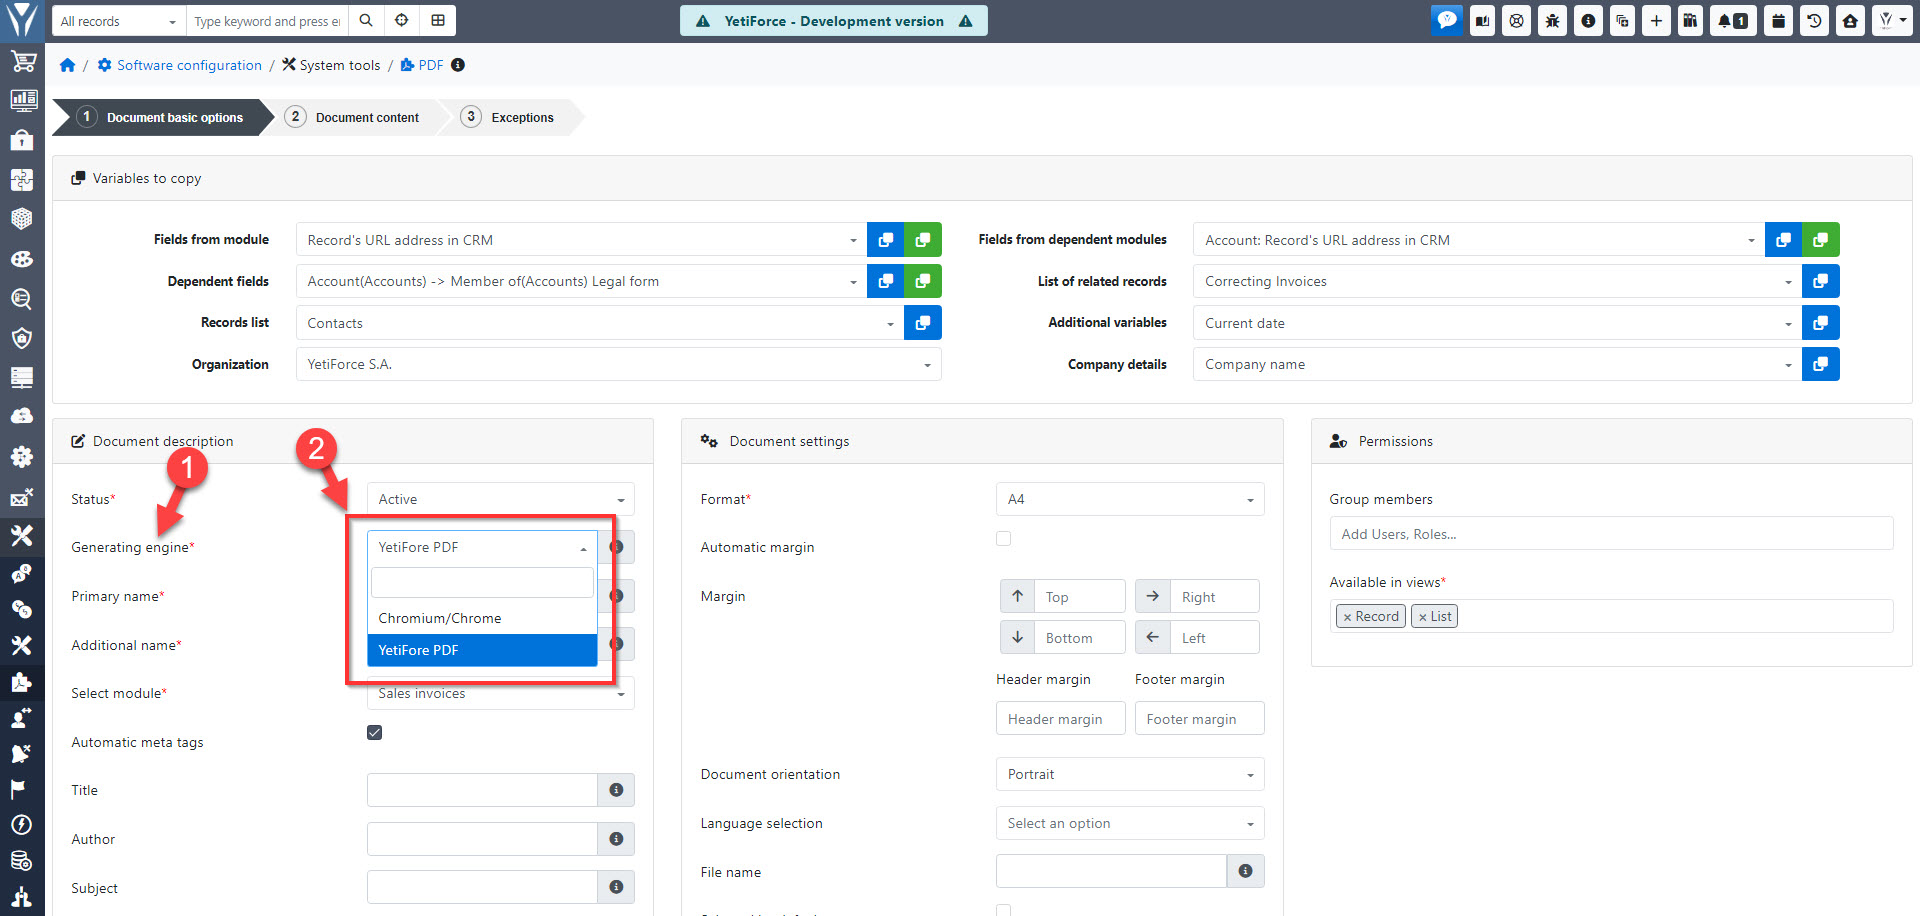
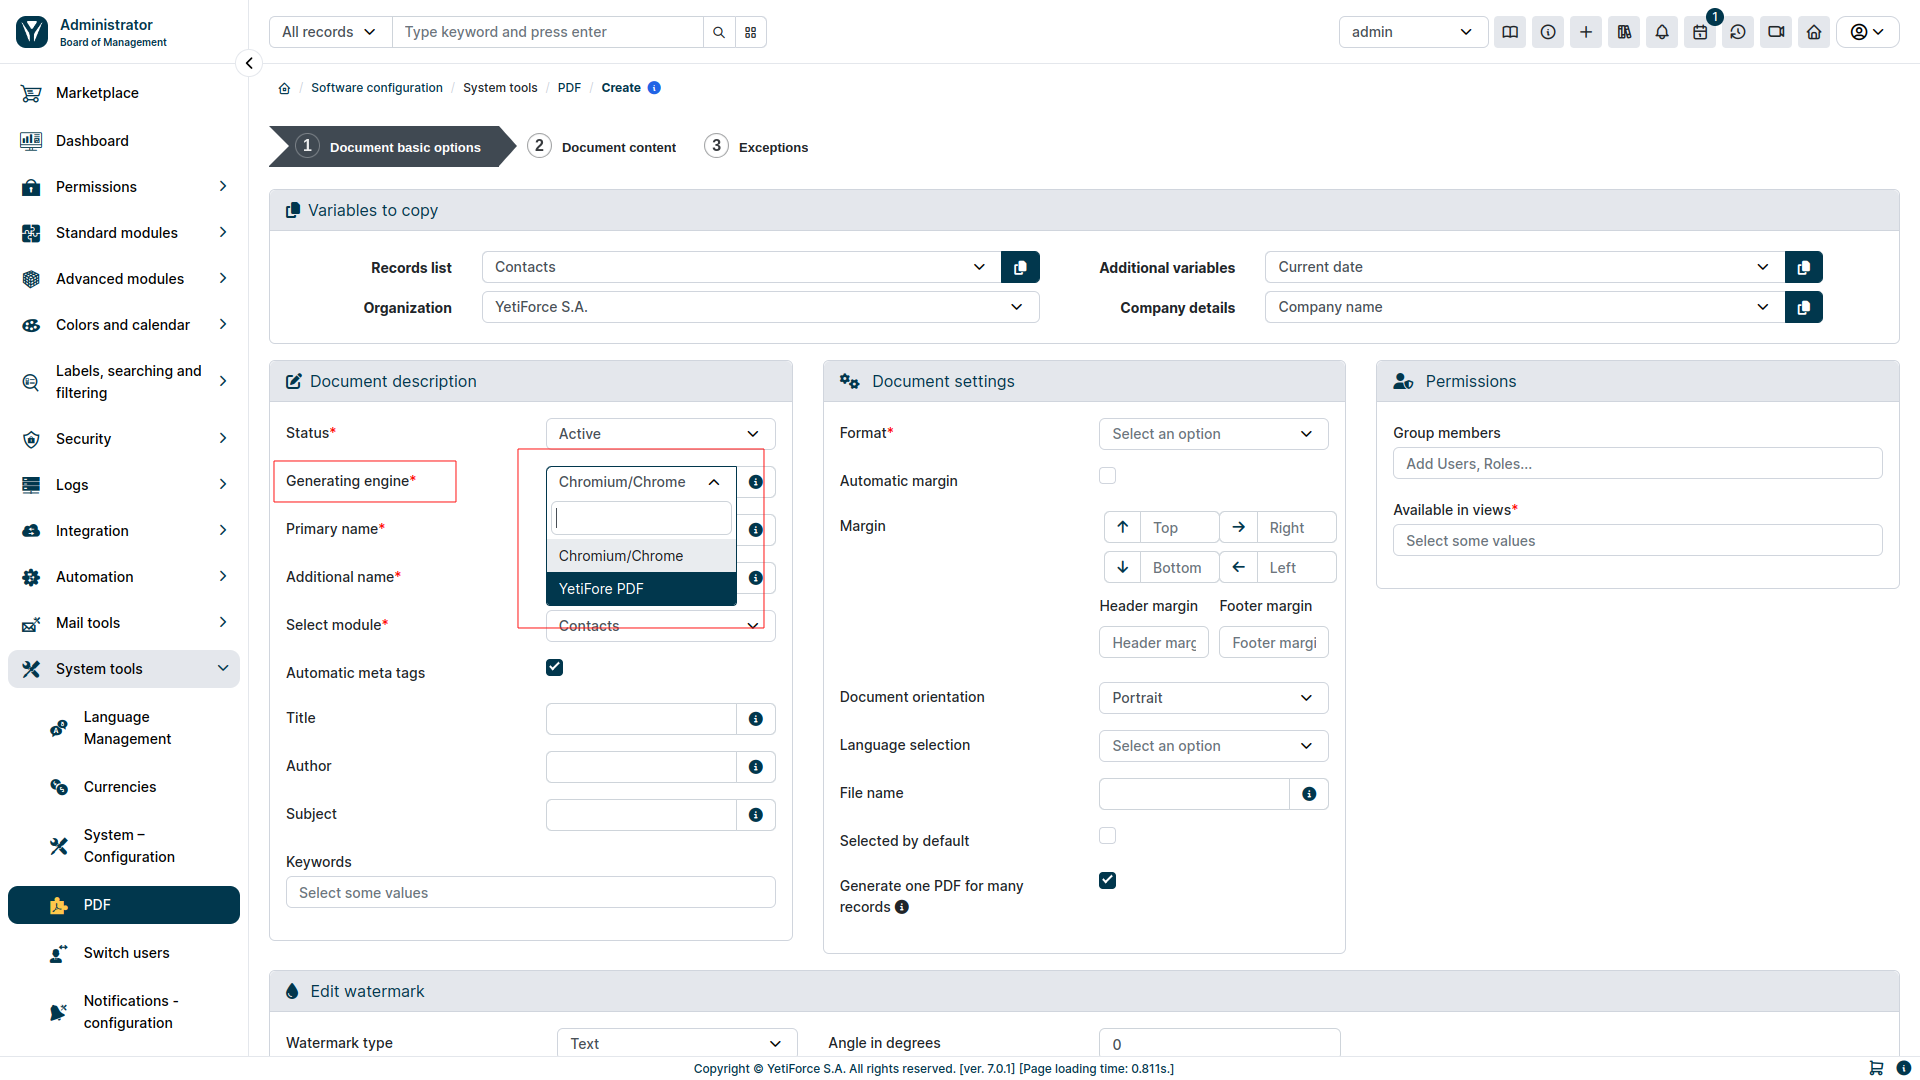
YD-24

diff --git a/docs/3-administrator-guides/17-system-tools/04-pdf/README.md b/docs/3-administrator-guides/17-system-tools/04-pdf/README.md
@@ -1,26 +1,45 @@
 ---
-title: PDF
+title: PDF Premium
 description: YetiForce PDF Premium
 keywords:
   - YetiForce
-  - Settings
+  - Panel konfiguracyjny
   - PDF
 tags:
   - PDF
 preview: pdf-2.jpg
 ---
+:::tip
 
-## Chromium/Chrome
+Do prawidłowego działania PDF Premium konieczne jest wykupienie płatnego dodatku YetiForce PDF Premium. 
 
-### Download
+Instrukcja jak to zrobić znajduje się tutaj: [Instrukcja aktywacji YetiForce PDF Premium](/administrator-guides/marketplace/addons/YetiForce-pdf-premium/)
+
+:::
+
+
+W celu prawidłowego działania dodatku YetiForce PDF Premium, konieczne jest pobranie i zainstalowanie silnika Chromium/Chrome. Silnik ten umożliwia zaawansowane renderowanie PDF-ów, zapewniając wysoką jakość dokumentów i pełną zgodność z funkcjami systemu.
+
+### Pobranie silnika Chromium/Chrome
+
+Aby pobrać silnik Chromium odwiedź poniższą stronę. Znajdziesz tam instrukcje i linki do najnowszych wersji przeglądarki Chromium, które można zainstalować na swoim systemie.
 
 - Chromium - https://www.chromium.org/getting-involved/download-chromium/
 
-### Configuring the PDF generator path
+### Konfigurowanie ścieżki generatora PDF
 
-PDF configuration file: [config/Components/Pdf.php](https://doc.yetiforce.com/code/classes/Config-Components-Pdf.html)
+Aby zapewnić prawidłowe generowanie dokumentów PDF w YetiForce CRM, konieczne jest skonfigurowanie ścieżki do generatora PDF. Proces ten obejmuje modyfikację pliku konfiguracyjnego i ustawienie odpowiedniej ścieżki do silnika Chromium/Chrome. Poniżej znajdziesz szczegółowe instrukcje dotyczące tej konfiguracji.
 
-Set the local path or a command to the PDF generator in the [$chromiumBinaryPath](https://doc.yetiforce.com/code/classes/Config-Components-Pdf.html#property_chromiumBinaryPath) parameter
+#### Lokalizacja pliku konfiguracyjnego
+
+Plik konfiguracyjny odpowiedzialny za ustawienia generatora PDF znajduje się w katalogu **config/Components/** i nosi nazwę **Pdf.php**.
+
+Plik konfiguracyjny PDF: [config/Components/Pdf.php](https://doc.yetiforce.com/code/classes/Config-Components-Pdf.html)
+
+#### Ustawienie ścieżki do generatora PDF
+
+W pliku **Pdf.php** znajdź parametr **[$chromiumBinaryPath](https://doc.yetiforce.com/code/classes/Config-Components-Pdf.html#property_chromiumBinaryPath)** i  ustaw w nim ścieżkę lokalną do zainstalowanego silnika Chromium/Chrome lub określić polecenie, które uruchamia ten silnik.
+
 
 ```php
 /**
@@ -28,27 +47,27 @@ Set the local path or a command to the PDF generator in the [$chromiumBinaryPath
  */
 class Pdf
 {
-	/**
-	 * The name or path of the chrome/chromium engine.
-	 *
-	 * @see https://www.chromium.org/getting-involved/download-chromium
-	 *
-	 * @var string
-	 */
-	public static $chromiumBinaryPath = 'chromium';
+    /**
+     * The name or path of the chrome/chromium engine.
+     *
+     * @see https://www.chromium.org/getting-involved/download-chromium
+     *
+     * @var string
+     */
+    public static $chromiumBinaryPath = 'chromium';
 
-	/**
-	 * Chromium browser options available for the browser factory.
-	 *
-	 * @see https://github.com/chrome-php/chrome#available-options
-	 *
-	 * @var array
-	 */
-	public static $chromiumBrowserOptions = ['noSandbox' => true, 'noProxyServer' => true];
+    /**
+     * Chromium browser options available for the browser factory.
+     *
+     * @see https://github.com/chrome-php/chrome#available-options
+     *
+     * @var array
+     */
+    public static $chromiumBrowserOptions = ['noSandbox' => true, 'noProxyServer' => true];
 }
 ```
 
-#### Example `$chromiumBinaryPath` values:
+#### Przykładowe wartości `$chromiumBinaryPath`:
 
 - chromium
 - chromium-browser
@@ -57,115 +76,21 @@ class Pdf
 - c:\Program Files (x86)\Google\Chrome\Application\chrome.exe
 - c:\ungoogled-chromium\chrome.exe
 
-### Select the new engine
+### Wybierz nowy silnik
 
-When the `$chromiumBinaryPath` path is set correctly and the system has access to the location/command you will see a new engine in the PDF panel.
+W panelu administrcyjnym przejdź w lewym menu do zakładki  ```Narzędzia systemowe``` a następnie ```PDF```. W celu weryfikacji czy poprawnie skonfigurowano silnik Chromium/Chrome, wybierz przycisk ```Nowy szablon PDF```.
+
+![pdf-1.jpg](pdf-1.jpg)
+
+Gdy ścieżka `$chromiumBinaryPath` jest poprawnie ustawiona i system ma dostęp do lokalizacji/polecenia, zobaczysz nowy silnik w polu ```Silnik generujący```.
 
 ![pdf-2.jpg](pdf-2.jpg)
 
-### Simple installation on Linux
+### Instalacja Chromium na Linuksie przy użyciu skryptu Bash
 
-A simple script to download the latest version without installation.
+Jeżeli twój system znajduje się na serwerze opartym o dystrybucję Linux, możesz w prosty sposób pobrać Chrome/Chromium za pomocą skryptu bash.
 
-Make sure your system has installed all required dependencies.
-Thanks [Puppeteer](https://github.com/puppeteer/puppeteer/blob/main/docs/troubleshooting.md#chrome-headless-doesnt-launch-on-unix)
-❤
-
-The list of required packages may vary depending on the distribution and version. https://source.chromium.org/chromium/chromium/src/+/main:chrome/installer/linux/debian/dist_package_versions.json
-
-<details>
-<summary>Debian (e.g. Ubuntu)</summary>
-
-```
-ca-certificates
-fonts-liberation
-libappindicator3-1
-libasound2
-libatk-bridge2.0-0
-libatk1.0-0
-libc6
-libcairo2
-libcups2
-libdbus-1-3
-libexpat1
-libfontconfig1
-libgbm1
-libgcc1
-libglib2.0-0
-libgtk-3-0
-libnspr4
-libnss3
-libpango-1.0-0
-libpangocairo-1.0-0
-libstdc++6
-libx11-6
-libx11-xcb1
-libxcb1
-libxcomposite1
-libxcursor1
-libxdamage1
-libxext6
-libxfixes3
-libxi6
-libxrandr2
-libxrender1
-libxss1
-libxtst6
-lsb-release
-wget
-xdg-utils
-
-Note: You might need to install ‘libgbm-dev’ and ‘libxshmfence-dev’ also. This is reported for Ubuntu 20.04.
-```
-
-</details>
-
-<details>
-<summary>CentOS</summary>
-
-```
-alsa-lib.x86_64
-atk.x86_64
-cups-libs.x86_64
-gtk3.x86_64
-ipa-gothic-fonts
-libXcomposite.x86_64
-libXcursor.x86_64
-libXdamage.x86_64
-libXext.x86_64
-libXi.x86_64
-libXrandr.x86_64
-libXScrnSaver.x86_64
-libXtst.x86_64
-pango.x86_64
-xorg-x11-fonts-100dpi
-xorg-x11-fonts-75dpi
-xorg-x11-fonts-cyrillic
-xorg-x11-fonts-misc
-xorg-x11-fonts-Type1
-xorg-x11-utils
-```
-
-After installing dependencies you need to update nss library using this command
-
-```
-yum update nss -y
-```
-
-</details>
-
-<details>
-  <summary>Check out discussions</summary>
-
-- [#290](https://github.com/puppeteer/puppeteer/issues/290) - Debian troubleshooting <br/>
-- [#391](https://github.com/puppeteer/puppeteer/issues/391) - CentOS troubleshooting <br/>
-- [#379](https://github.com/puppeteer/puppeteer/issues/379) - Alpine troubleshooting <br/>
-
-</details>
-
-```bash
-apt-get install -y --no-install-recommends libnss3-tools libatk1.0-0 libatk-bridge2.0-0 libdrm-dev libxkbcommon-dev libxcomposite1 libxdamage1 libxfixes3 libxrandr2 libgbm-dev libasound2
-```
+Wykonaj poniższy skrypt, który pobierze najnowszą wersję Chromium/Chrome i umieści go gotowego do pracy na serwerze w lokalizacji ```./latest```
 
 ```bash
 #! /bin/bash
@@ -200,3 +125,12 @@ rm -f ./latest
 find chromium/* -type d -ctime +1 -exec rm -rf {} \;
 ln -s $REVISION/chrome-linux/ ./latest
 ```
+
+<details>
+  <summary>Rozwiazywanie problemów</summary>
+
+- [#290](https://github.com/puppeteer/puppeteer/issues/290) - Debian <br/>
+- [#391](https://github.com/puppeteer/puppeteer/issues/391) - CentOS <br/>
+- [#379](https://github.com/puppeteer/puppeteer/issues/379) - Alpine <br/>
+
+</details>

diff --git a/docs/3-administrator-guides/04-marketplace/02-addons/05-YetiForce-pdf-premium/README.md b/docs/3-administrator-guides/04-marketplace/02-addons/05-YetiForce-pdf-premium/README.md
@@ -1,32 +1,50 @@
 ---
-title: YetiForce PDF Premium - activation
+title: YetiForce PDF Premium
 description: YetiForce PDF Premium
 keywords:
   - YetiForce
   - PDF
   - Premium
-  - activation
+  - aktywuj
 tags:
   - PDF
 preview: pdf-1.jpg
 ---
 
+YetiForce CRM oferuje szeroki wachlarz funkcji, w tym generowanie raportów PDF. W systemie istnieją dwa główne silniki do generowania dokumentów PDF: darmowy, wbudowany silnik YetiForce oraz płatny ***YetiForce PDF Premium***, oparty o **Chromium**.
+
+System umożliwia połączenie danych z YetiForce CRM z szablonami PDF, co pozwala na automatyczne generowanie spersonalizowanych dokumentów. Dzięki temu można dynamicznie wstawiać informacje z rekordów kontaktów, firm, ofert, faktur i innych modułów, co znacznie oszczędza czas i eliminuje błędy związane z ręcznym wprowadzaniem danych.
+
+Podstawowa wersja funkcjonalności PDF jest dostępna za darmo w systemie YetiForce.
+Natomiast **PDF Premium** to rozszerzenie, które umożliwia tworzenie bardziej zaawansowanych i profesjonalnych dokumentów PDF, niż standardowy silnik dostępny w systemie YetiForce.  Wykorzystuje ono przeglądarkę Chromium do renderowania i generowania dokumentów PDF.
+
+#### Co wyróżnia YetiForce PDF Premium
+* kompatybilność z CSS3 i HTML 5
+* kompatybilność ze wszystkimi technologiami obsługiwanymi przez przeglądarkę
+* w pełni obsługiwane znaki specjalne i czcionki
+* jedynym ograniczeniem są możliwości przeglądarki
+* wsparcie systemu operacyjnego: Linux, macOS, Windows
+
+W tym artykule znajdziesz instrukcje, jak zainstalować i korzystać z tego modułu.
+
 :::tip
 
-The Chromium/Chrome engine is necessary in order for this addon to work properly. You can download it [HERE](https://www.chromium.org/getting-involved/download-chromium/)
+Do prawidłowego działania dodatku wymagany jest silnik Chromium/Chrome. 
+Informacje jak go skonfigurowac znajdziesz w [tym artykule](/administrator-guides/system-tools/pdf)
 
 :::
 
-## Purchasing the addon
 
-It's best to purchase all the addon in the Marketplace in the system in the administrator panel. If you're interested in other payment options you can use our website or get in touch with us directly.
+## Zakup dodatku
+
+Dodatki najlepiej kupować w Marketplace panelu administracyjnym systemu YetiForce. Jeżeli interesują cię inne formy płatności i rozliczenia to można skorzystać z naszej strony WWW lub skontaktować się z nami za pomocą formularza kontaktowego.
 
 ![pdf-1.jpg](pdf-1.jpg)
 
-## Activating the addon by the YetiForce team
+## Aktywacja dodatku przez zespół YetiForce
 
-We activate the subscription manually. If your addon is not active within 48h in your system, please read the following article: [Troubleshooting inactive and malfunctioning addons](/administrator-guides/marketplace/troubleshooting)
+Obsługa subskrypcji odbywa się ręcznie. Jeśli po 48 godzinach nie zobaczysz aktywnego rozszerzenia, to zapoznaj się z artykułem: [Rozwiązywanie problemów z nieaktywnymi lub niedziałającymi dodatkami](/administrator-guides/marketplace/troubleshooting)
 
-## Configuration
+## Konfiguracja
 
-A description of the configuration panel can be found in the Administrator section: [`Software configuration → System tools → PDF`](/administrator-guides/system-tools/pdf/#chromiumchrome)
+Opis panelu konfiguracyjnego można znaleźć w sekcji administratora [`Konfiguracja systemu → Narzędzia systemowe → PDF`](/administrator-guides/system-tools/pdf/#chromiumchrome)
